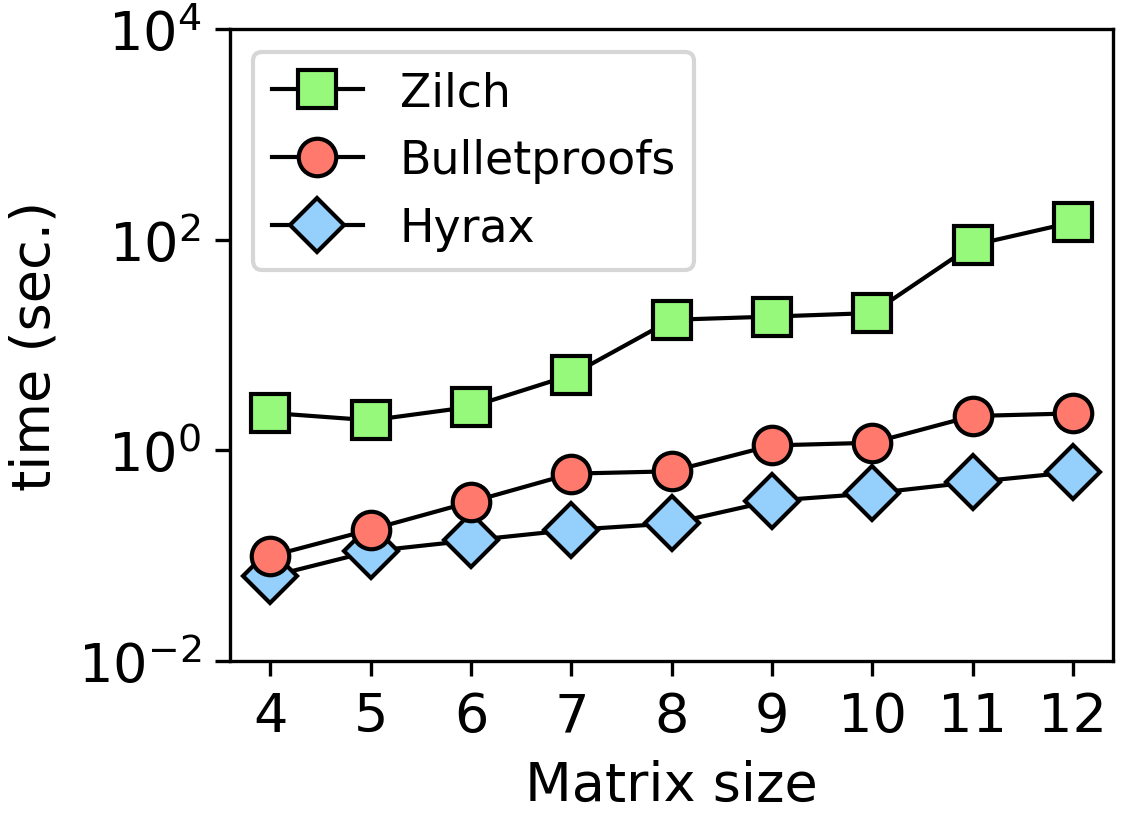
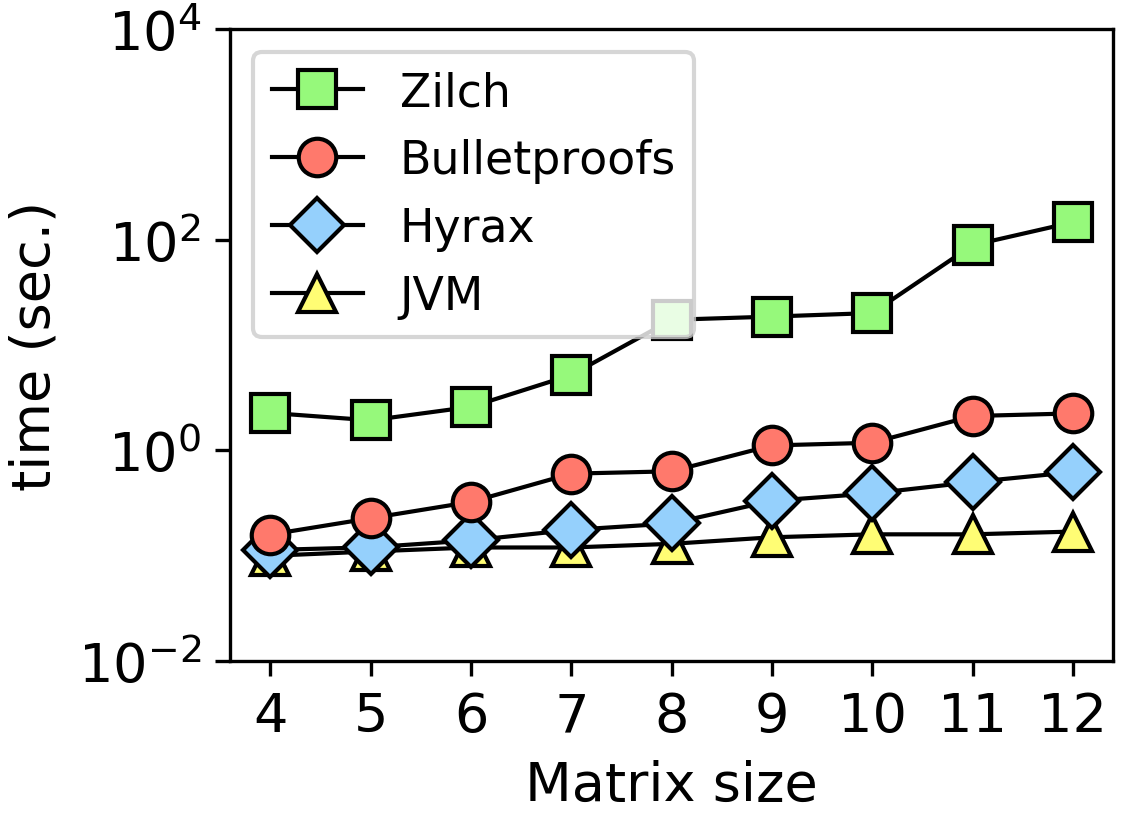
Minor changes in plots

diff --git a/plots/comparisons_mmult.py b/plots/comparisons_mmult.py
@@ -19,23 +19,27 @@ pltsize = (4, 3)
 legend = ['Zilch', 'Bulletproofs', 'Hyrax' ]
 
 zilch_regs =  {   'prover' :      [ 2.273, 1.934, 2.5984, 5.2095, 17.4122, 18.6738, 20.1869, 1.4822 * 60, 2.4466 *60],
-                'verifier' :    [ 0.1512, 0.1613, 0.2875, 0.5740, 1.1459, 1.3131, 1.5348, 3.0563, 3.5284]
+                'verifier' :    [ 0.1512, 0.1613, 0.2875, 0.5740, 1.0459, 1.3131, 1.5348, 2.9063, 3.5284]
                 }
 
-bulletproofs = { 'prover' : [ 0.099388, 0.177597, 0.325088, 0.602870, 0.634588, 1.116599, 1.184699, 2.124449, 2.249473],
+bulletproofs = { 'prover' : [ 0.159388, 0.227597, 0.325088, 0.602870, 0.634588, 1.116599, 1.184699, 2.124449, 2.249473],
                 'verifier' : [ 0.024325, 0.036660, 0.059968, 0.088143, 0.099940, 0.153849, 0.169196, 0.270128, 0.299970],
                 }
 
-hyrax = {       'prover' : [ 0.0637, 0.11044, 0.1402, 0.17622, 0.20312, 0.3328, 0.3916, 0.5011, 0.6227],
+hyrax = {       'prover' : [ 0.1137, 0.12044, 0.1402, 0.17622, 0.20312, 0.3328, 0.3916, 0.5011, 0.6227],
                 'verifier' : [ 0.0521, 0.0781, 0.0849, 0.0898, 0.0902, 0.1237, 0.1245, 0.1318, 0.1398],
                 }
 
+java = {        'prover' : [ 0.10, 0.11, 0.12, 0.12, 0.13, 0.15, 0.16, 0.16, 0.17 ]
+                }
 
 N = len(zilch_regs[benchmark])
 index = np.arange(N)  # the x locations for the groups
 
 fig, ax = plt.subplots(figsize=pltsize)
 
+if benchmark == 'prover':
+    l4 = ax.plot(index, java[benchmark], linestyle='solid', color='black', markerfacecolor='xkcd:butter yellow', marker='^', linewidth=1, markersize=9)
 l3 = ax.plot(index, hyrax[benchmark], linestyle='solid', color='black', markerfacecolor='xkcd:light blue', marker='D', linewidth=1, markersize=9)
 l2 = ax.plot(index, bulletproofs[benchmark], linestyle='solid', color='black', markerfacecolor='xkcd:salmon', marker='o', linewidth=1, markersize=9)
 l1 = ax.plot(index, zilch_regs[benchmark], linestyle='solid', color='black', markerfacecolor='xkcd:light green', marker='s', linewidth=1, markersize=9)
@@ -46,12 +50,12 @@ if benchmark == 'prover':
     ax.set_ylim([0.01, 10000])
     ax.set_ylabel('time (sec.)', fontsize=13)
     # ax.legend((l1[0], l2[0], l3[0], l4[0], l5[0]), legend, fontsize=9, ncol=1, loc='upper left')
-    ax.legend((l1[0], l2[0], l3[0]), legend, fontsize=11, ncol=1, loc='upper left')
+    ax.legend((l1[0], l2[0], l3[0], l4[0]), ['Zilch', 'Bulletproofs', 'Hyrax', 'JVM'], fontsize=11, ncol=1, loc='upper left')
 if benchmark == 'verifier':
-    ax.set_ylim([0.01, 100])
+    ax.set_ylim([0.01, 10])
     ax.set_ylabel('time (sec.)', fontsize=13)
     # ax.legend((l1[0], l2[0], l3[0], l4[0], l5[0]), legend, fontsize=9, ncol=1, loc='upper left')
-    ax.legend((l1[0], l2[0], l3[0]), legend, fontsize=11, ncol=1, loc='upper left')
+    # ax.legend((l1[0], l2[0], l3[0]), ['Zilch', 'Bulletproofs', 'Hyrax'], fontsize=11, ncol=1, loc='upper left')
 # elif benchmark == 'communication':
 #     ax.set_ylim([200, 400])
 #     ax.set_ylabel('Communication complexity (KB)', fontsize=11)

diff --git a/plots/baseline.py b/plots/baseline.py
@@ -1,0 +1,32 @@
+import numpy as np
+import matplotlib.pyplot as plt
+import sys
+
+mydpi = 500
+
+# pltsize = (4, 3)
+pltsize = (6.4, 2.2)
+
+factorial = [ 9.00, 10.17, 15.18, 14.33, 15.08, 53.50, 50.23, 50.38, 55.42, 52.31, 57.67, 118.33, 110.00, 109.85, 113.08, 112.31 ]
+
+N = len(factorial)
+index = np.arange(N) # the x locations for the groups
+
+fig, ax = plt.subplots(figsize=pltsize)
+
+l1 = ax.plot(index, factorial, linestyle='solid', color='black', markerfacecolor='xkcd:sky blue', marker='D', linewidth=0.5, markersize=6)
+
+
+ax.set_yscale('log')
+ax.set_ylim([1, 1000])
+ax.set_ylabel('Ratio of Zilch\nover Java 11')
+
+
+ax.set_xticks(index)
+ax.set_xlabel('Factorial')
+ax.set_xticklabels(['$1$', '$2$', '$3$', '$4$', '$5$', '$6$', '$7$', '$8$', '$9$', '$10$', '$11$', '$12$', '$13$', '$14$', '$15$', '$16$'])
+
+# plt.show()
+
+plt.tight_layout()
+plt.savefig('./charts/baseline_factorial.png', dpi=mydpi, bbox_inches='tight', pad_inches=0.03)
